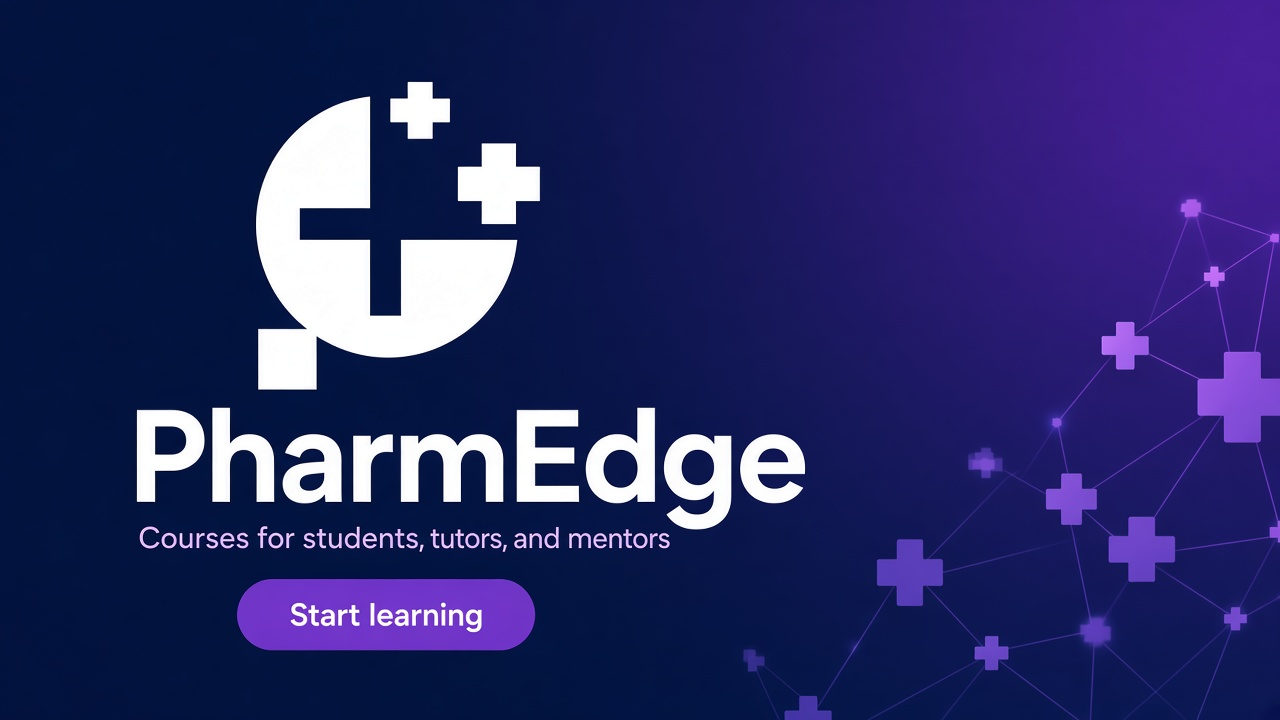
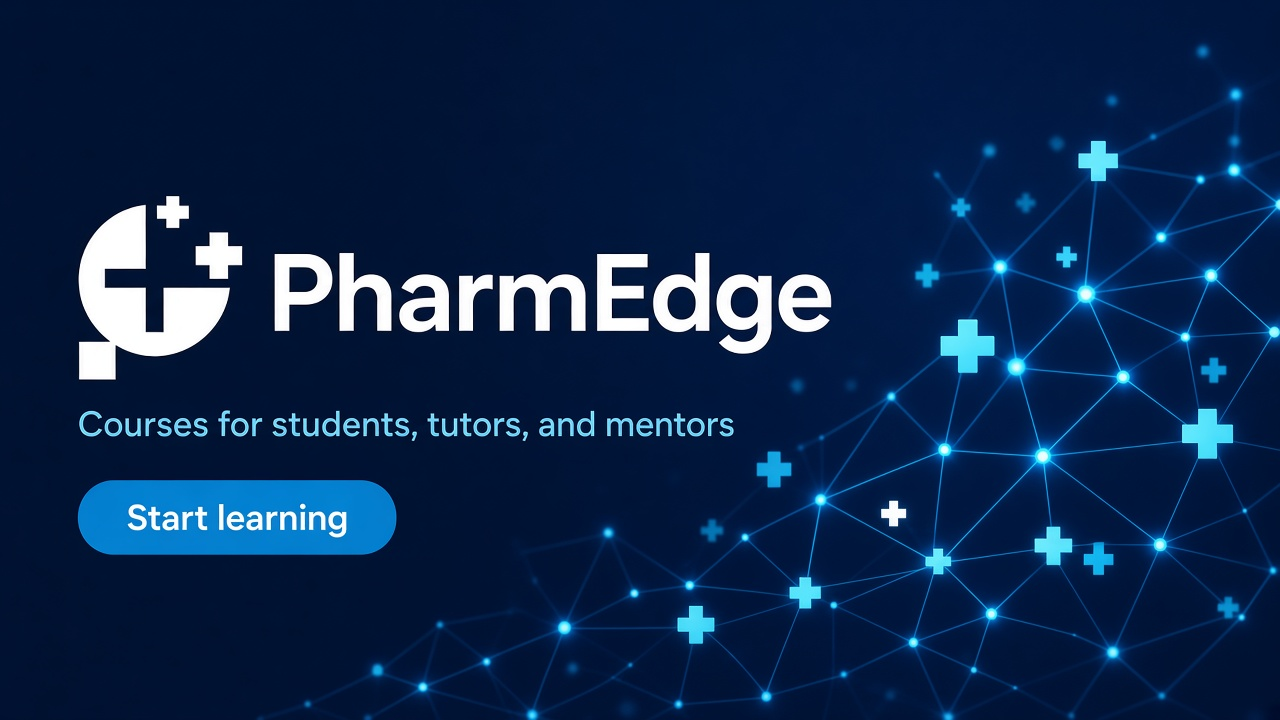
opengrah color update

diff --git a/scripts/generate-brand-assets.ts b/scripts/generate-brand-assets.ts
@@ -86,7 +86,8 @@ async function writeOgJpeg(sourceName: string, dest: string) {
 
 async function main() {
   const transparent = { r: 0, g: 0, b: 0, alpha: 0 };
-  const appleBg = { r: 245, g: 247, b: 250, alpha: 255 };
+  // Brand neutral #FAFAFB
+  const appleBg = { r: 250, g: 250, b: 251, alpha: 255 };
 
   const fav16 = await markOnCanvas(16, transparent, 0.06);
   const fav32 = await markOnCanvas(32, transparent, 0.06);
@@ -109,8 +110,8 @@ async function main() {
   writeFileSync(join(seoDir, "favicon.ico"), ico);
   writeFileSync(join(root, "public/favicon.ico"), ico);
 
-  const homeOg = join(ogDir, "home-v3.jpg");
-  const defaultOg = join(ogDir, "default-v3.jpg");
+  const homeOg = join(ogDir, "home-v4.jpg");
+  const defaultOg = join(ogDir, "default-v4.jpg");
   await writeOgJpeg("home.png", homeOg);
   await writeOgJpeg("default.png", defaultOg);
   await writeOgJpeg("home.png", join(root, "app/opengraph-image.jpg"));

diff --git a/lib/site-metadata.ts b/lib/site-metadata.ts
@@ -24,13 +24,13 @@ export const siteUrl = resolveSiteUrl();
 
 /**
  * Open Graph images — add files under `public/og/`:
- * - `default-v3.jpg` (1200×630) — site-wide fallback
- * - `home-v3.jpg` — homepage / marketing
+ * - `default-v4.jpg` (1200×630) — site-wide fallback
+ * - `home-v4.jpg` — homepage / marketing
  * Next.js also serves `app/opengraph-image.jpg` and `app/twitter-image.jpg`.
  */
 export const ogImagePaths = {
-  default: "/og/default-v3.jpg",
-  home: "/og/home-v3.jpg",
+  default: "/og/default-v4.jpg",
+  home: "/og/home-v4.jpg",
 } as const;
 
 export const siteConfig = {

diff --git a/public/og/README.md b/public/og/README.md
@@ -11,8 +11,8 @@ Public fallbacks:
 
 | File | Used for |
 |------|----------|
-| `default-v3.jpg` | Site-wide Open Graph / Twitter card fallback |
-| `home-v3.jpg` | Homepage — listed first in metadata |
+| `default-v4.jpg` | Site-wide Open Graph / Twitter card fallback |
+| `home-v4.jpg` | Homepage — listed first in metadata |
 
 Sources are AI-authored in `scripts/og-sources/`. Resize and publish:
 
@@ -20,4 +20,4 @@ Sources are AI-authored in `scripts/og-sources/`. Resize and publish:
 pnpm brand:assets
 ```
 
-Brand: navy `#1e40af` / `#0b1228`, purple accent `#7a4dfc`, wordmark **PharmEdge**, CTA chip “Start learning”.
+Brand: navy `#000080` / `#00005c`, cyan accent `#00BFFF`, neutral `#FAFAFB`, wordmark **PharmEdge**, CTA chip “Start learning”.
